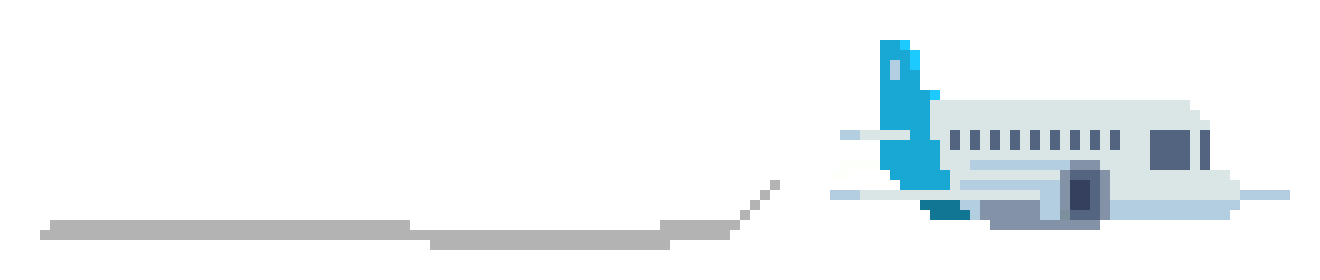
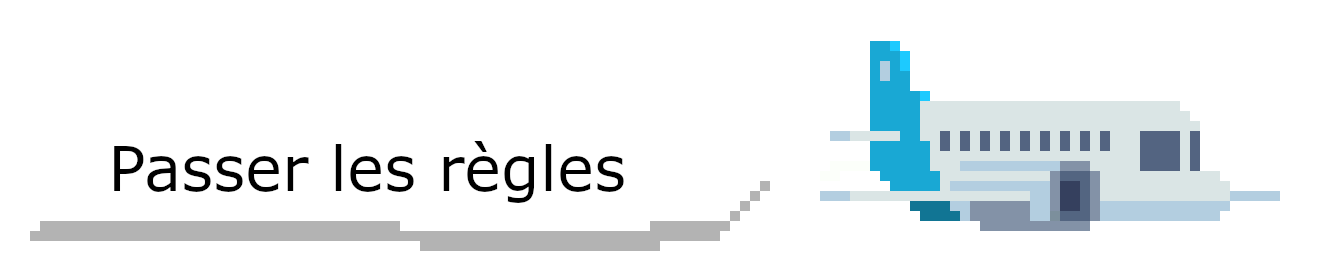
Add files via upload

diff --git a/ProjetWeb/Styles/style.css b/ProjetWeb/Styles/style.css
@@ -1,5 +1,5 @@
 body{
-    /* background-image: url("../assets/wallpaper.png"); */
+    
     margin: 0;
 
     
@@ -23,7 +23,7 @@ body{
     position: fixed;
     bottom: 35px;
     left: 20px;
-    z-index: 999; /* Assurez-vous que l'élément est au-dessus du contenu */
+    z-index: 100; /* Assurez-vous que l'élément est au-dessus du contenu */
   }
   
   .traveler {
@@ -102,34 +102,66 @@ body{
     height: 150px;
     width: 150px;
 
-    position: relative;
+    position: absolute;
 
     top : 68%;
-    left : 70%;
+    left: 10%;
 }
 
 .RulesPanneauDroit{
     height: 150px;
     width: 150px;
 
-    position: relative;
+    position: absolute;
 
-    top : 64%;
-    left : 70%;
-}
+    top : 70%;
+    left : 47%;
+    }
 
 .PlaneRules{
     height: 200px;
-    position: relative;
-    left: 15%;
+    position: absolute;
+    left: 30%;
 
 }
 
 .RulesIndication{
-    position: relative;
-    left: -475px;
+    position: absolute;
+    left: 10%;
     top: -155px;
     font-weight: bold;
     font-size: 30px;
     font-family: Arial, Helvetica, sans-serif;
+}
+
+.ruleSign{
+    width: 320px;
+    height: 310px;
+    position: absolute;
+    left: -2000px;
+    
+}
+
+.ruless{
+    position: absolute;
+    top : 50%;
+    left: 60%;
+}
+
+
+
+.regle{
+    margin-bottom: 10px;
+    font-weight: bold;
+    font-size: 25px;
+}
+
+.catDodo{
+    width: 180;
+    height: 180;
+    background-image: url("/assets/catRompiche.png");
+    background-repeat: no-repeat;
+   
+    top : 50%;
+    
 }

diff --git a/ProjetWeb/accueil.html b/ProjetWeb/accueil.html
@@ -48,14 +48,33 @@
             <div class="page rules">
                 <img class="RulesPanneauDroit" src="./assets/signright.png" />
             
+               <a  href="#play">
                 <img class="PlaneRules" src="./assets/planeRules.png"/>
+               </a> 
                
+               <span class="ruless">
+                <img class="ruleSign" src="./assets/rulesSign.png" />
+                
+
+               
+
+               </span>
+              
+            
+       
+            
+            
           
                
             </div>
             
-            <div class="page play" id="play"></div>
-            <div class="page resultat"></div>
+            <div class="page play" id="play">
+                <a class="startGame" href="Jouer.html">Jouer</a>
+            </div>
+            <div class="page resultat">
+                
+                <a href=""><img src="/assets/trophy.png"></img></a>
+            </div>
     
             
     
